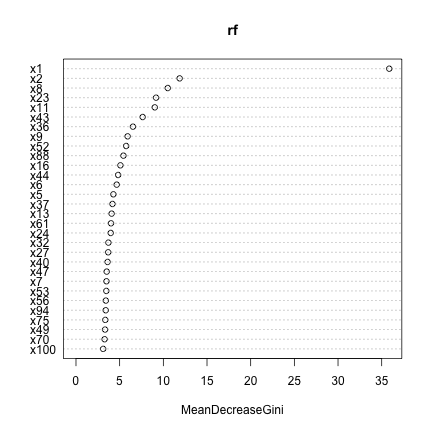
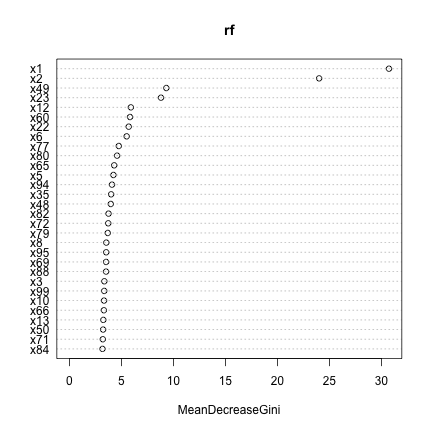
fix

diff --git a/_posts/2014-10-29-thoughts.md b/_posts/2014-10-29-thoughts.md
@@ -105,13 +105,13 @@ in the smaller space). This is done below:
    E = eigen(X.tX,TRUE)
 
    #use the eigenvectors to get the value of each observation at each component
-   d.PC = data.frame(P%*%E$vectors)
+   d.PC = data.frame(Xcenter%*%E$vectors)
 {% endhighlight %}
 
 
 
 {% highlight text %}
-Error: object 'P' not found
+Error: non-conformable arguments
 {% endhighlight %}
 
 
@@ -166,8 +166,8 @@ kable(table(pred = prediction, true = d$y[801:1000]),
 {% highlight text %}
 |id  |   0|   1|
 |:---|---:|---:|
-|0   |  90|  12|
-|1   |  15|  83|
+|0   |  80|  16|
+|1   |  17|  87|
 {% endhighlight %}
 
 
@@ -231,8 +231,8 @@ kable(table(pred = prediction, true = d$y[801:1000]),
 {% highlight text %}
 |id  |   0|   1|
 |:---|---:|---:|
-|0   |  83|  17|
-|1   |  22|  78|
+|0   |  83|  14|
+|1   |  14|  89|
 {% endhighlight %}
 
 And the importance plot identifies variables we need going forward:
